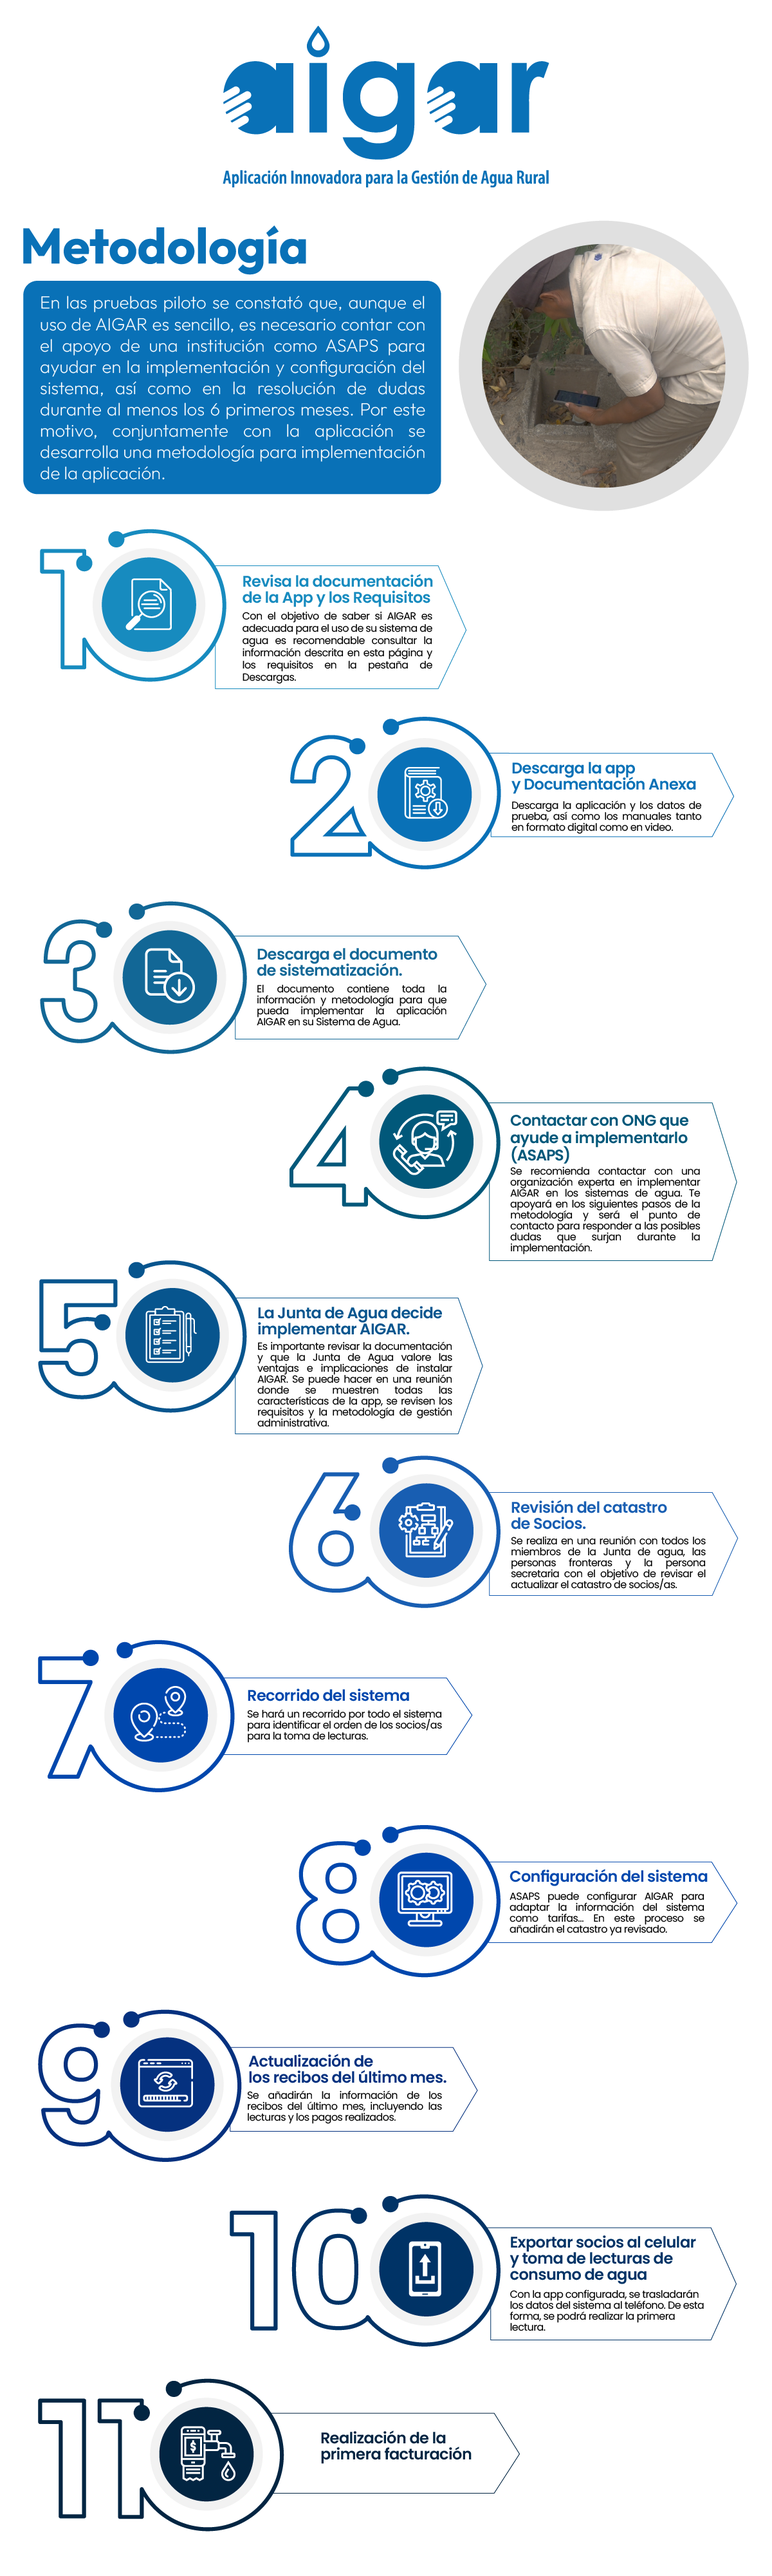
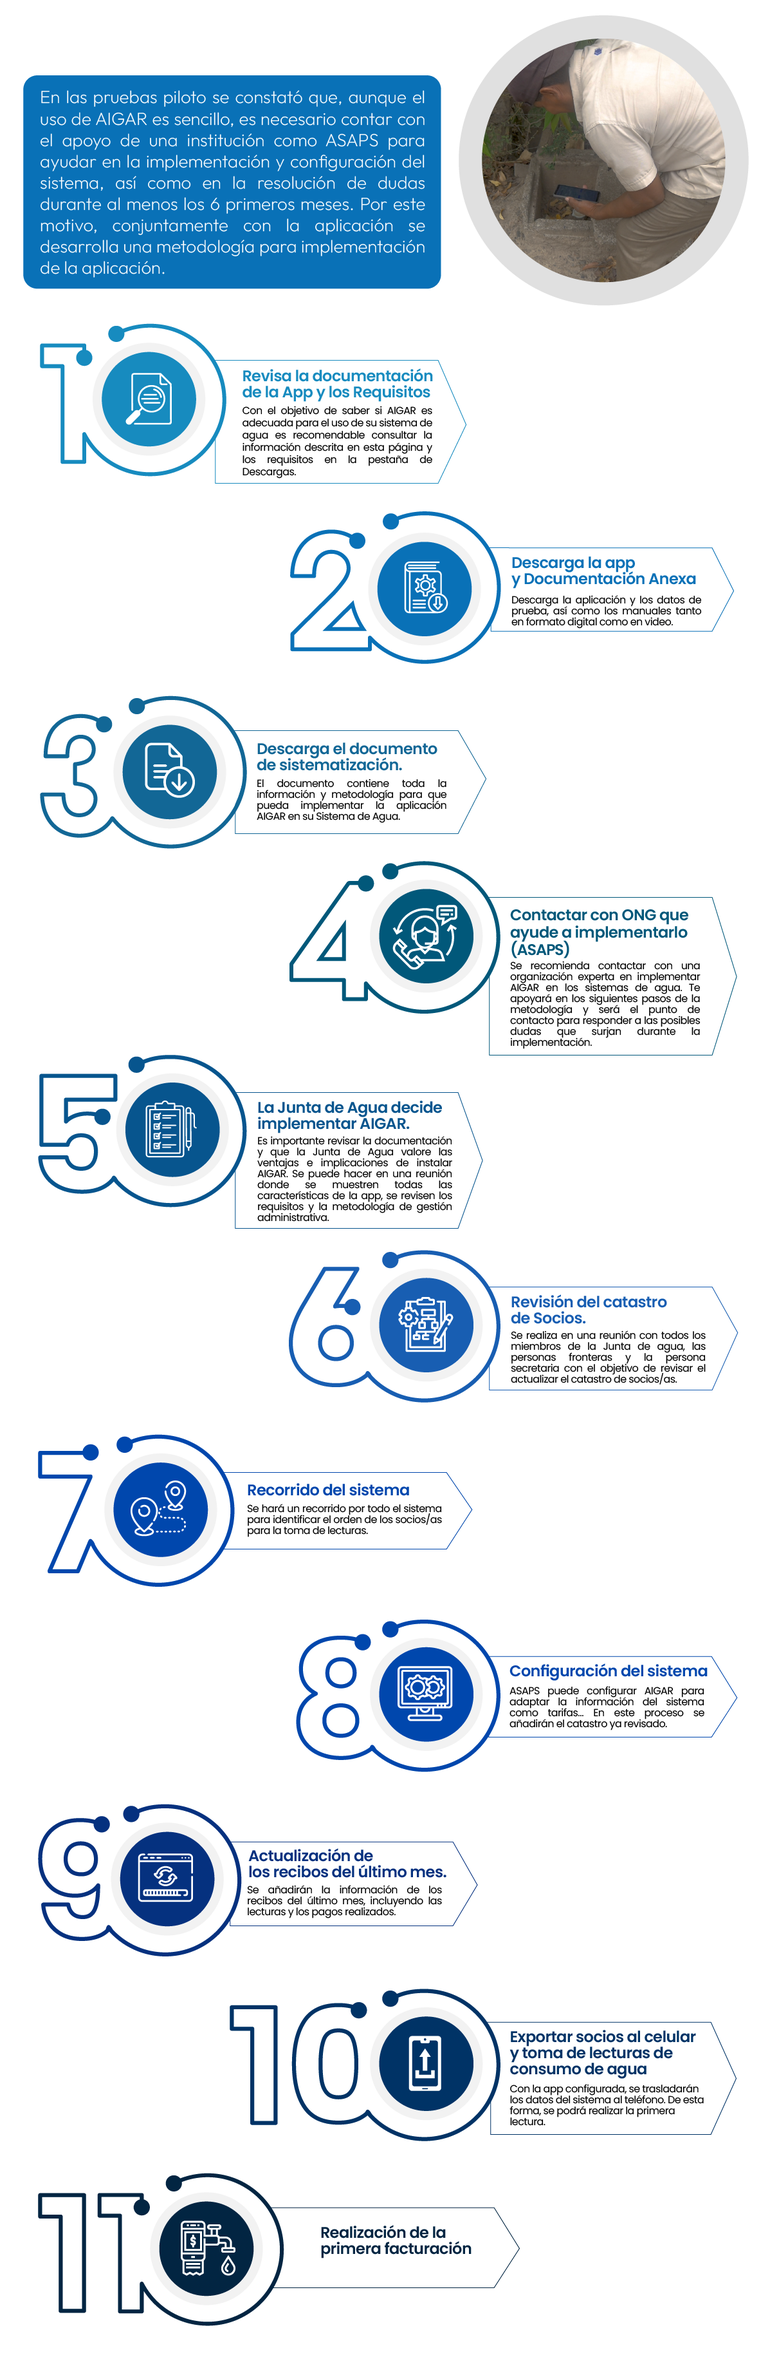
Add content for 'methodology' page

Changed region(s): [[0.0309, 0.0, 0.9891, 0.9619], [0.0927, 0.2482, 0.1236, 0.2793]]

diff --git a/docs/methodology.md b/docs/methodology.md
@@ -4,5 +4,6 @@ hide:
   - toc
 ---
 
-- Explicación de gestión innovadora, metodología, ... Enlace al documento de sistematización y videos.
-- Revisar si añadirlo al final de la pagina de que es aigar.
+# Metodología
+
+{{image("assets/images/Foto_8_a.png")}}
